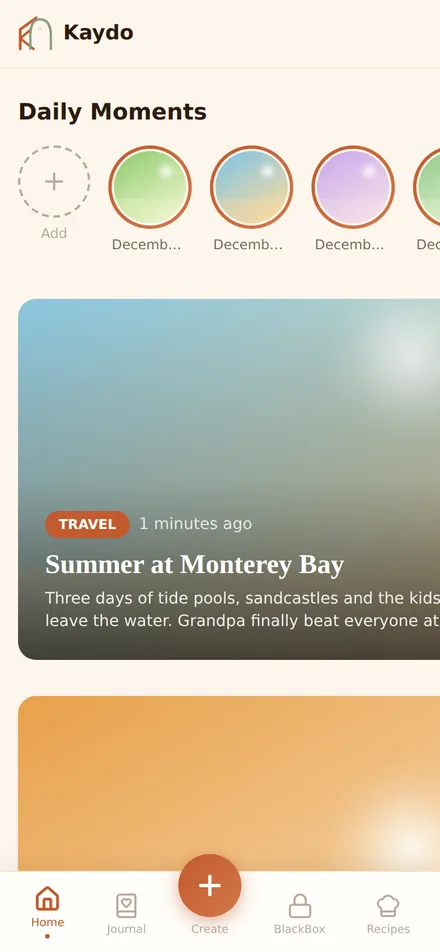
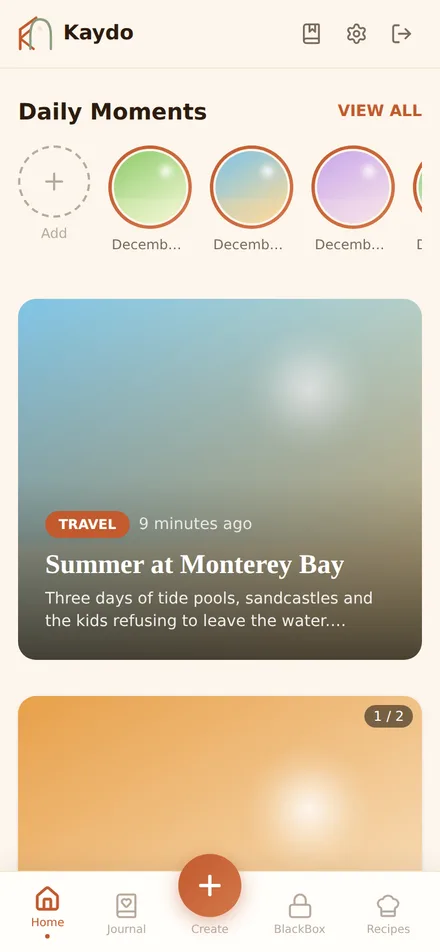
Fix horizontal overflow on mobile across authenticated pages
The app shell wraps page content in a `flex-1 flex flex-col` column next to
the sidebar. A flex item defaults to `min-width: auto`, so the wide
horizontal-scroll carousels (e.g. Daily Moments) forced the column — and the
whole page — past the viewport on phones (scrollWidth 516px at a 390px width),
clipping content off the right edge. Add `min-w-0` to the content column so it
shrinks to the viewport and inner carousels scroll instead of overflowing.

Re-captured the home screenshots for the landing page with the fix applied.

Claude-Session: https://claude.ai/code/session_01VA7ubjUuEBY67HHrBfK4Aw

diff --git a/src/pages/CreateBlackBoxPage.jsx b/src/pages/CreateBlackBoxPage.jsx
@@ -157,7 +157,7 @@ export default function CreateBlackBoxPage() {
   return (
     <div className="min-h-screen bg-cream flex">
       <Sidebar />
-      <div className="flex-1 flex flex-col min-h-screen pb-20 lg:pb-0">
+      <div className="flex-1 flex flex-col min-w-0 min-h-screen pb-20 lg:pb-0">
 
         {/* Mobile sticky top bar */}
         <div className="lg:hidden sticky top-0 z-10 bg-cream border-b border-cream-dark px-4 py-3 flex items-center justify-between">

diff --git a/src/pages/JournalArchivePage.jsx b/src/pages/JournalArchivePage.jsx
@@ -30,7 +30,7 @@ export default function JournalArchivePage() {
   return (
     <div className="min-h-screen bg-cream flex">
       <Sidebar />
-      <div className="flex-1 flex flex-col min-h-screen pb-20 lg:pb-0">
+      <div className="flex-1 flex flex-col min-w-0 min-h-screen pb-20 lg:pb-0">
         {/* Top bar */}
         <div className="sticky top-0 z-20 bg-cream border-b border-cream-dark px-4 py-3 flex items-center gap-3">
           <button

diff --git a/src/pages/HomePage.jsx b/src/pages/HomePage.jsx
@@ -69,7 +69,7 @@ export default function HomePage() {
     <div className="min-h-screen bg-cream flex">
       <Sidebar onPostMemory={() => setShowPostModal(true)} />
 
-      <div className="flex-1 flex flex-col min-h-screen pb-20 lg:pb-0">
+      <div className="flex-1 flex flex-col min-w-0 min-h-screen pb-20 lg:pb-0">
         <MobileHeader />
 
         <main className="flex-1 px-4 lg:px-8 py-6 max-w-3xl mx-auto w-full">

diff --git a/src/pages/SmartTimelinePage.jsx b/src/pages/SmartTimelinePage.jsx
@@ -183,7 +183,7 @@ export default function SmartTimelinePage() {
   return (
     <div className="min-h-screen bg-cream flex">
       <Sidebar />
-      <div className="flex-1 flex flex-col min-h-screen pb-20 lg:pb-0">
+      <div className="flex-1 flex flex-col min-w-0 min-h-screen pb-20 lg:pb-0">
         <MobileHeader />
         <main className="flex-1 px-4 lg:px-8 py-6 max-w-2xl mx-auto w-full">
         {/* Header */}

diff --git a/src/pages/KidsJournalPage.jsx b/src/pages/KidsJournalPage.jsx
@@ -33,7 +33,7 @@ export default function KidsJournalPage() {
   return (
     <div className="min-h-screen bg-cream flex">
       <Sidebar />
-      <div className="flex-1 flex flex-col min-h-screen pb-20 lg:pb-0">
+      <div className="flex-1 flex flex-col min-w-0 min-h-screen pb-20 lg:pb-0">
         <MobileHeader />
         <div className="flex-1 p-4 md:p-8 max-w-4xl mx-auto w-full">
       {/* Header */}

diff --git a/src/pages/BlackBoxPage.jsx b/src/pages/BlackBoxPage.jsx
@@ -27,7 +27,7 @@ export default function BlackBoxPage() {
   return (
     <div className="min-h-screen bg-cream flex">
       <Sidebar />
-      <div className="flex-1 flex flex-col min-h-screen pb-20 lg:pb-0">
+      <div className="flex-1 flex flex-col min-w-0 min-h-screen pb-20 lg:pb-0">
         <MobileHeader />
         <div className="flex-1 p-4 md:p-8 max-w-3xl mx-auto w-full">
       {/* Header */}

diff --git a/src/pages/RecipesPage.jsx b/src/pages/RecipesPage.jsx
@@ -23,7 +23,7 @@ export default function RecipesPage() {
   return (
     <div className="min-h-screen bg-cream flex">
       <Sidebar />
-      <div className="flex-1 flex flex-col min-h-screen pb-20 lg:pb-0">
+      <div className="flex-1 flex flex-col min-w-0 min-h-screen pb-20 lg:pb-0">
         <MobileHeader />
         <div className="flex-1 p-4 md:p-8 max-w-3xl mx-auto w-full">
 

diff --git a/src/pages/CreateRecipePage.jsx b/src/pages/CreateRecipePage.jsx
@@ -188,7 +188,7 @@ export default function CreateRecipePage() {
   return (
     <div className="min-h-screen bg-cream flex">
       <Sidebar />
-      <div className="flex-1 flex flex-col min-h-screen pb-20 lg:pb-0">
+      <div className="flex-1 flex flex-col min-w-0 min-h-screen pb-20 lg:pb-0">
         <MobileHeader />
 
         {/* Sticky mobile header */}

diff --git a/src/pages/RecipeVersionDetailPage.jsx b/src/pages/RecipeVersionDetailPage.jsx
@@ -66,7 +66,7 @@ export default function RecipeVersionDetailPage() {
   return (
     <div className="min-h-screen bg-cream flex">
       <Sidebar />
-      <div className="flex-1 flex flex-col min-h-screen pb-20 lg:pb-0">
+      <div className="flex-1 flex flex-col min-w-0 min-h-screen pb-20 lg:pb-0">
         <MobileHeader />
 
         {loading ? (

diff --git a/src/pages/RecipeJourneyPage.jsx b/src/pages/RecipeJourneyPage.jsx
@@ -38,7 +38,7 @@ export default function RecipeJourneyPage() {
   return (
     <div className="min-h-screen bg-cream flex">
       <Sidebar />
-      <div className="flex-1 flex flex-col min-h-screen pb-20 lg:pb-0">
+      <div className="flex-1 flex flex-col min-w-0 min-h-screen pb-20 lg:pb-0">
         <MobileHeader />
 
         {loading ? (
